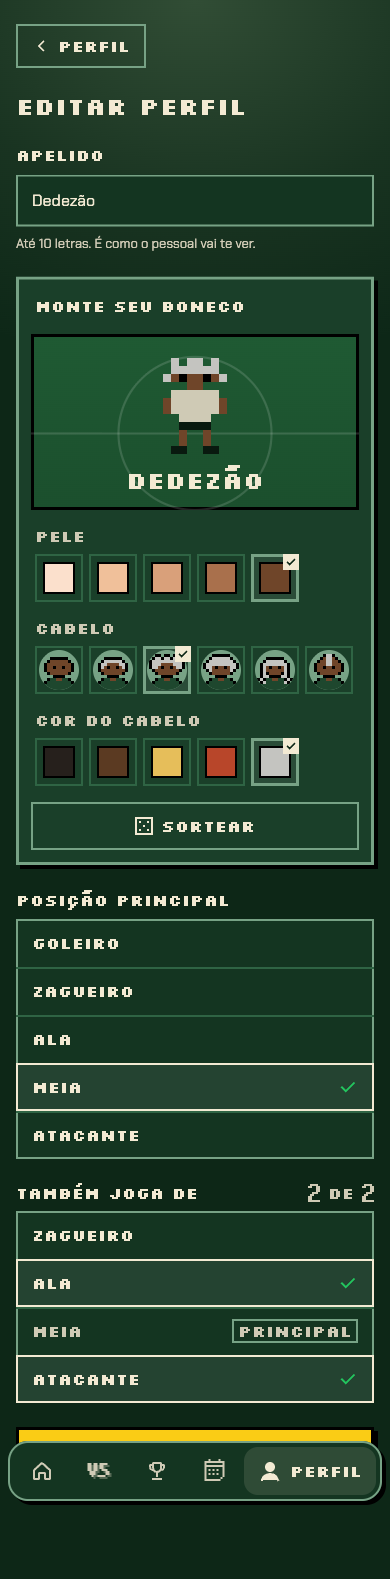
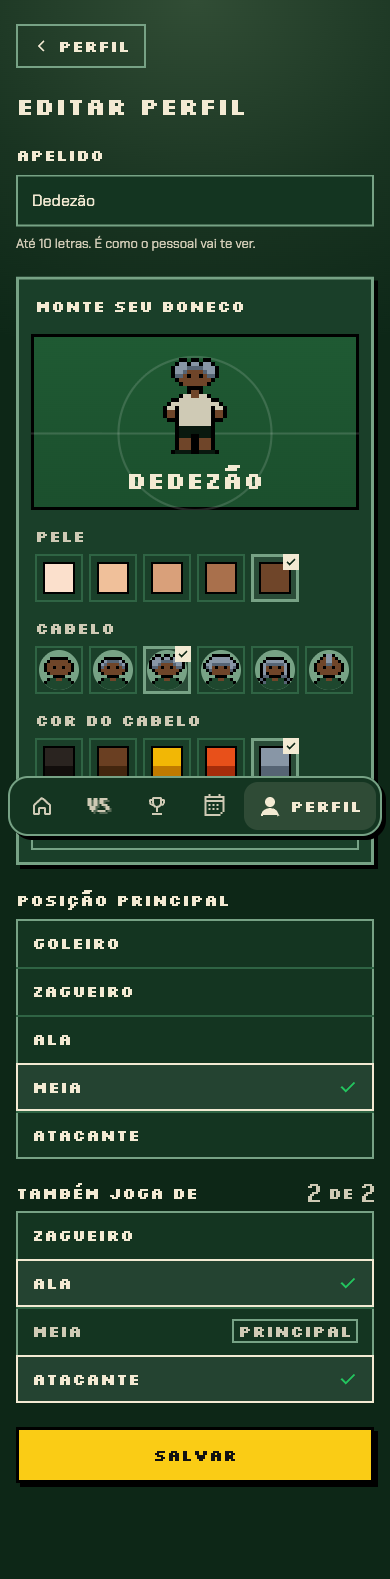
docs(perfil-jogador): álbum e QA da volta de design

diff --git a/docs/specs/perfil-jogador.md b/docs/specs/perfil-jogador.md
@@ -378,3 +378,9 @@ jogador acabou de tocar e não some sozinho. Com teste que reproduz (a escolha d
 | C52 | Playwright | ✅ | checagem automática de sobreposição verde em 320/375/390/430/1280 nas 7 telas |
 
 Orçamento de bundle: JS inicial 144,8/150 kB; `perfil-area` 3,5 kB e `elenco-area` 2,3 kB fora do carregamento inicial.
+
+**Volta de design (14/11/2026):** QA curto aprovado. C53 (cores do cabelo), C54 (corpo grande 16 × 24) e C55 (erro de
+campo rola, foca e avisa acima do botão) ✅ no Playwright e nos unitários `pixel-body-large-maps.test.ts` e
+`field-errors.test.ts`; regressão de C30–C36, C39 e C48 ✅; sobreposição verde nas telas mexidas; JS inicial
+144,8/150 kB, sprite grande num pedaço próprio. Fora da volta: em 320 px, o placar do jogo (`scoreboard.tsx`, da
+fatia placar-e-lances) passa 21 px da borda; fica para ticket próprio.
